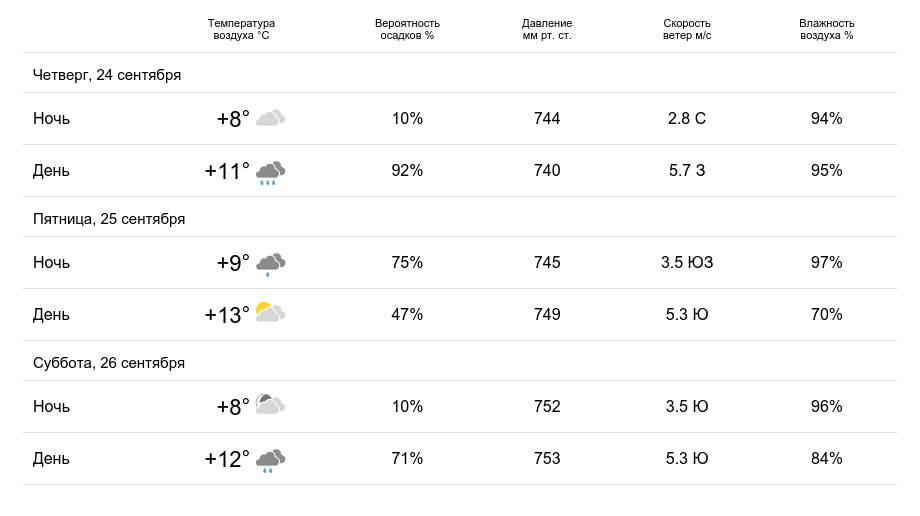
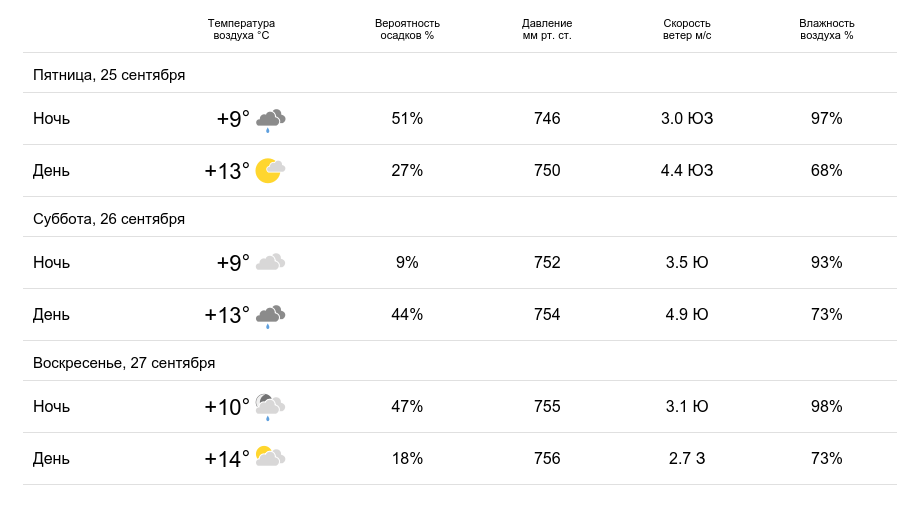
css form auth

diff --git a/assets/app.css b/assets/app.css
@@ -1899,18 +1899,60 @@ button,input,select {
    АВТОРИЗАЦИЯ И ПОЛЬЗОВАТЕЛЬ
    ========================================================================== */
 
-.auth-card,
-.login-card,
-.login-form,
+.auth-page {
+    display: flex;
+    align-items: center;
+    justify-content: center;
+
+    width: 100%;
+    min-height: 100dvh;
+    padding: 20px;
+}
+
 .auth-form {
-    margin: 20px;
+    display: grid;
+    gap: 18px;
+
+    width: 100%;
+    max-width: 380px;
+    padding: 28px;
+
+    background: var(--surface);
+    border: 1px solid var(--border);
+    border-radius: var(--radius);
+    box-shadow: var(--shadow);
+}
+
+.auth-form h1 {
+    margin: 0 0 4px;
+    text-align: center;
+    font-size: 1.5rem;
+}
+
+.auth-form > label:not(.auth-remember) {
+    display: grid;
+    gap: 7px;
+
+    font-size: 14px;
+    font-weight: 600;
+}
+
+.auth-form .input {
+    width: 100%;
+}
+
+.auth-form .button {
+    width: 100%;
 }
 
 .auth-remember {
     display: flex;
     align-items: center;
     gap: 9px;
+
     width: fit-content;
+    margin: 0 auto;
+
     cursor: pointer;
     user-select: none;
 }
@@ -1919,6 +1961,7 @@ button,input,select {
     width: 18px;
     height: 18px;
     margin: 0;
+
     accent-color: var(--primary, #2563eb);
     cursor: pointer;
 }
@@ -1928,8 +1971,19 @@ button,input,select {
     font-weight: 500;
 }
 
-.user-badge--logout {
+.auth-form .alert {
     margin: 0;
+}
+
+@media (max-width: 480px) {
+    .auth-page {
+        padding: 16px;
+    }
+
+    .auth-form {
+        max-width: 100%;
+        padding: 22px 18px;
+    }
 }
 
 .user-badge__button {
